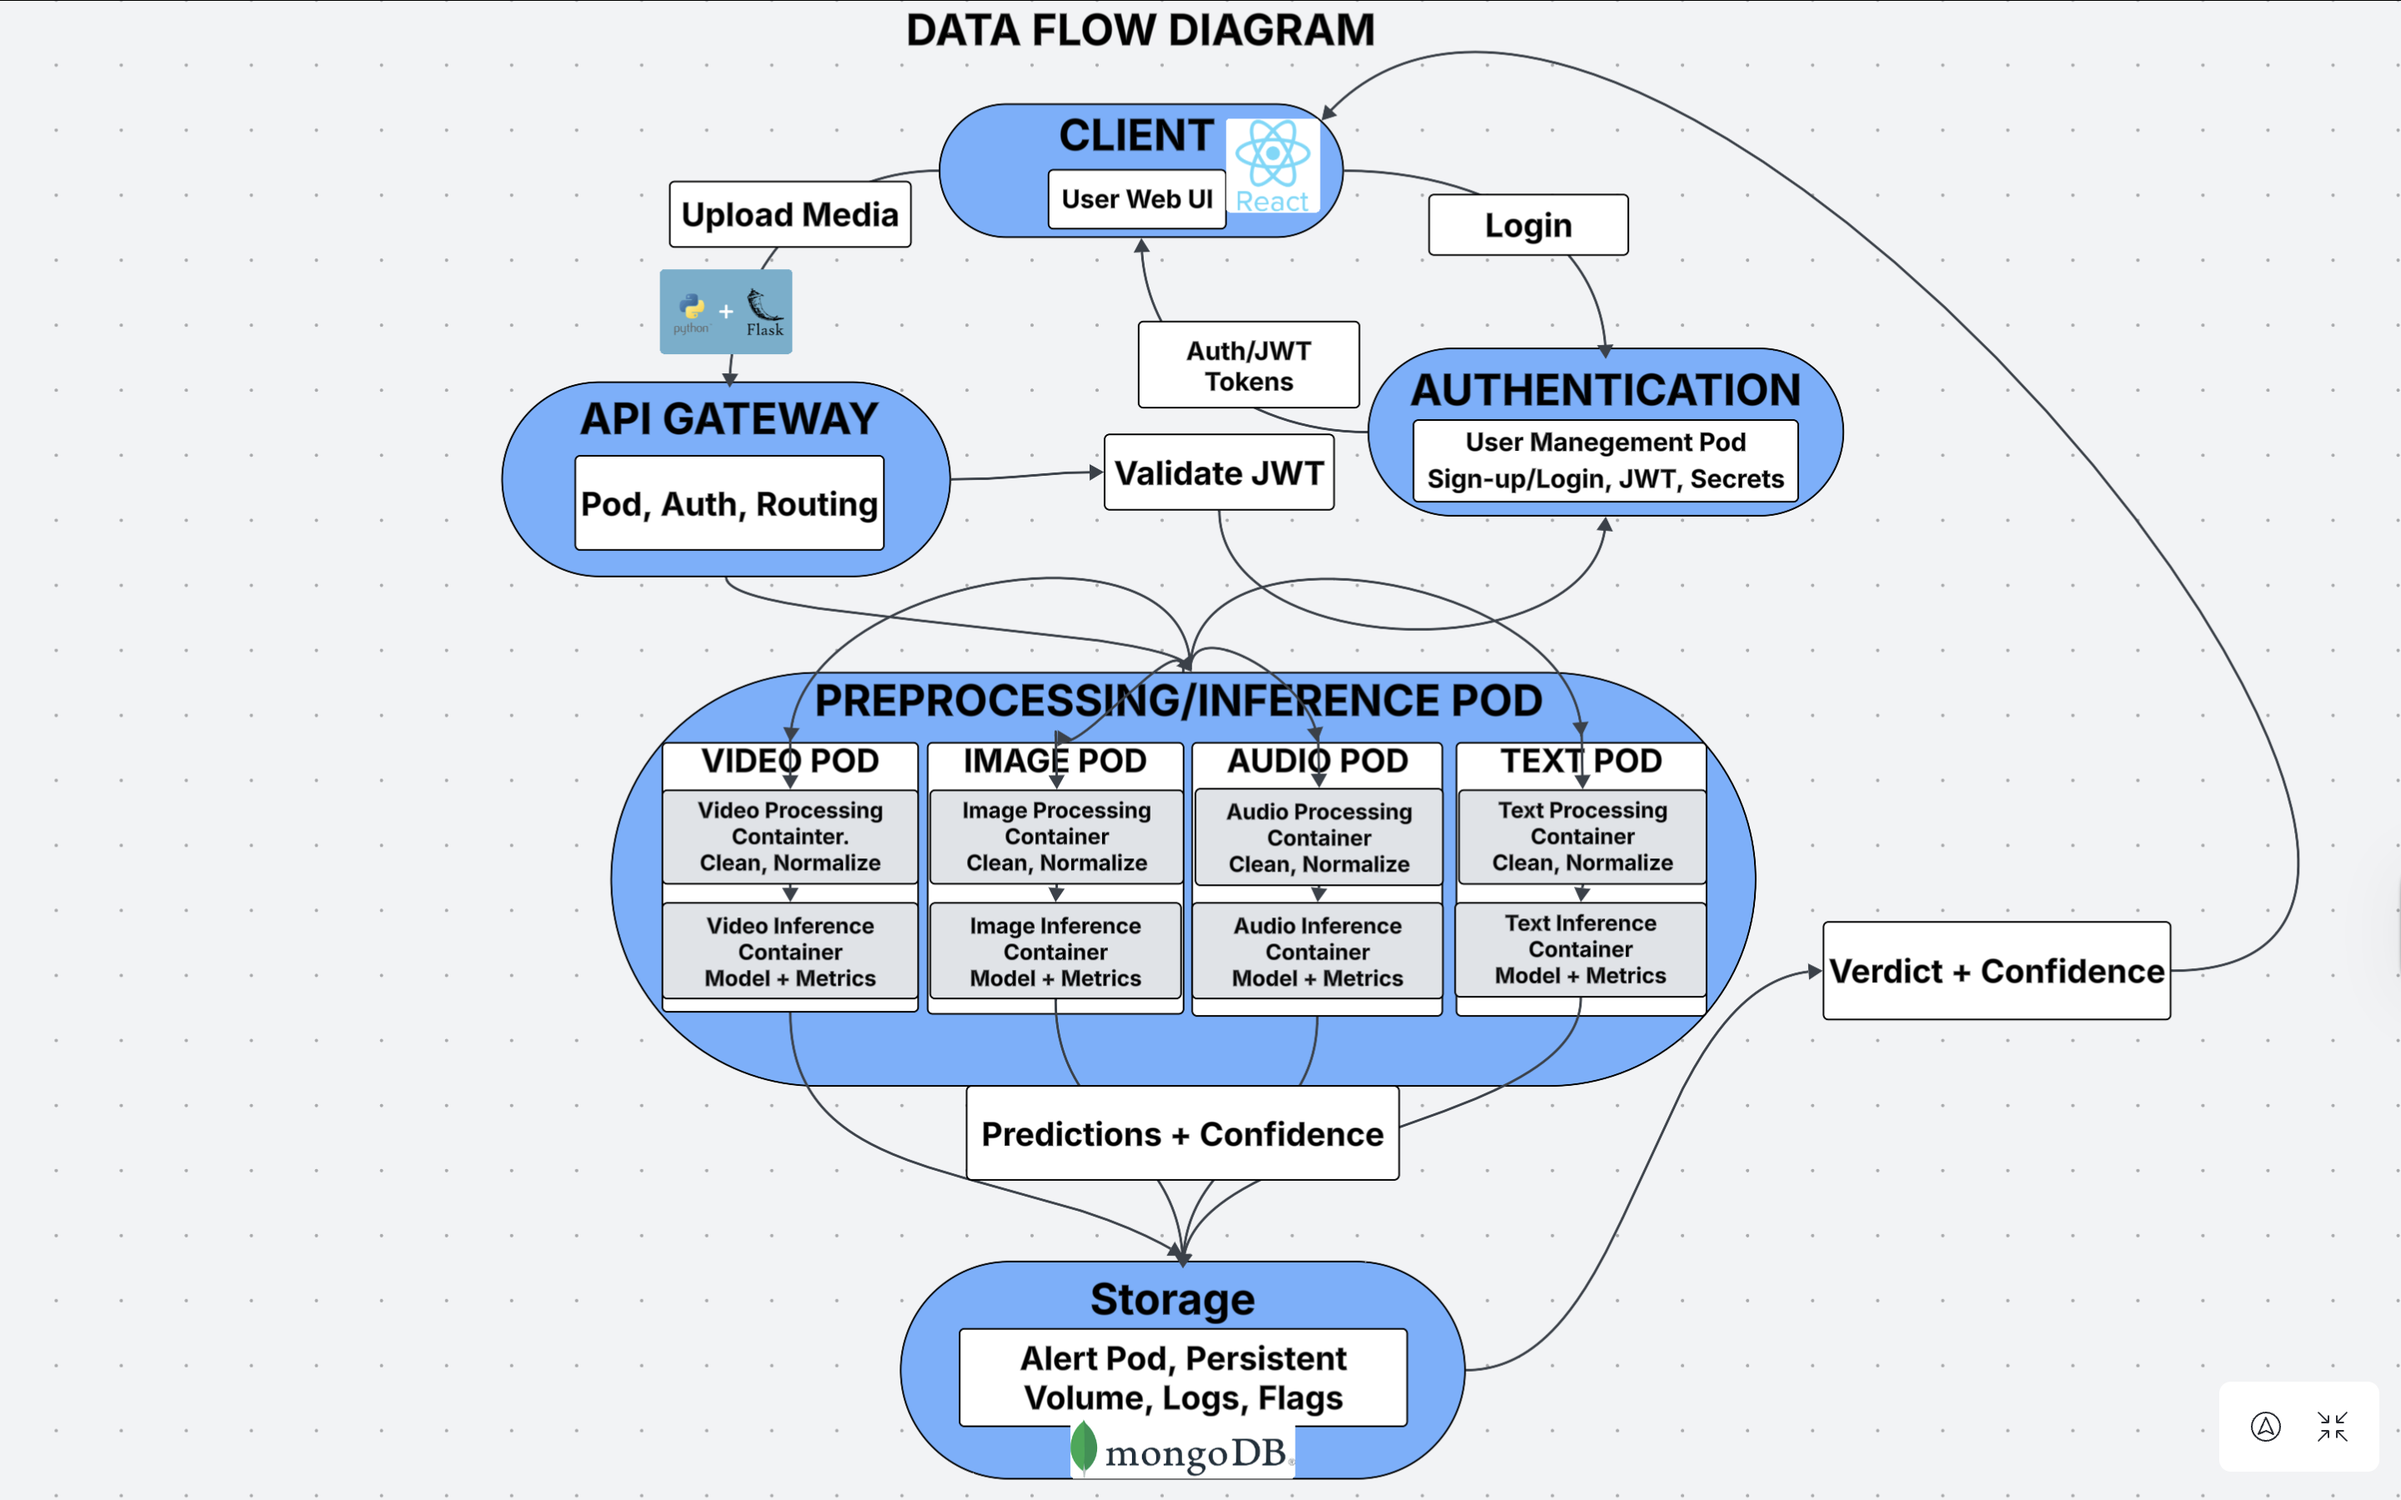
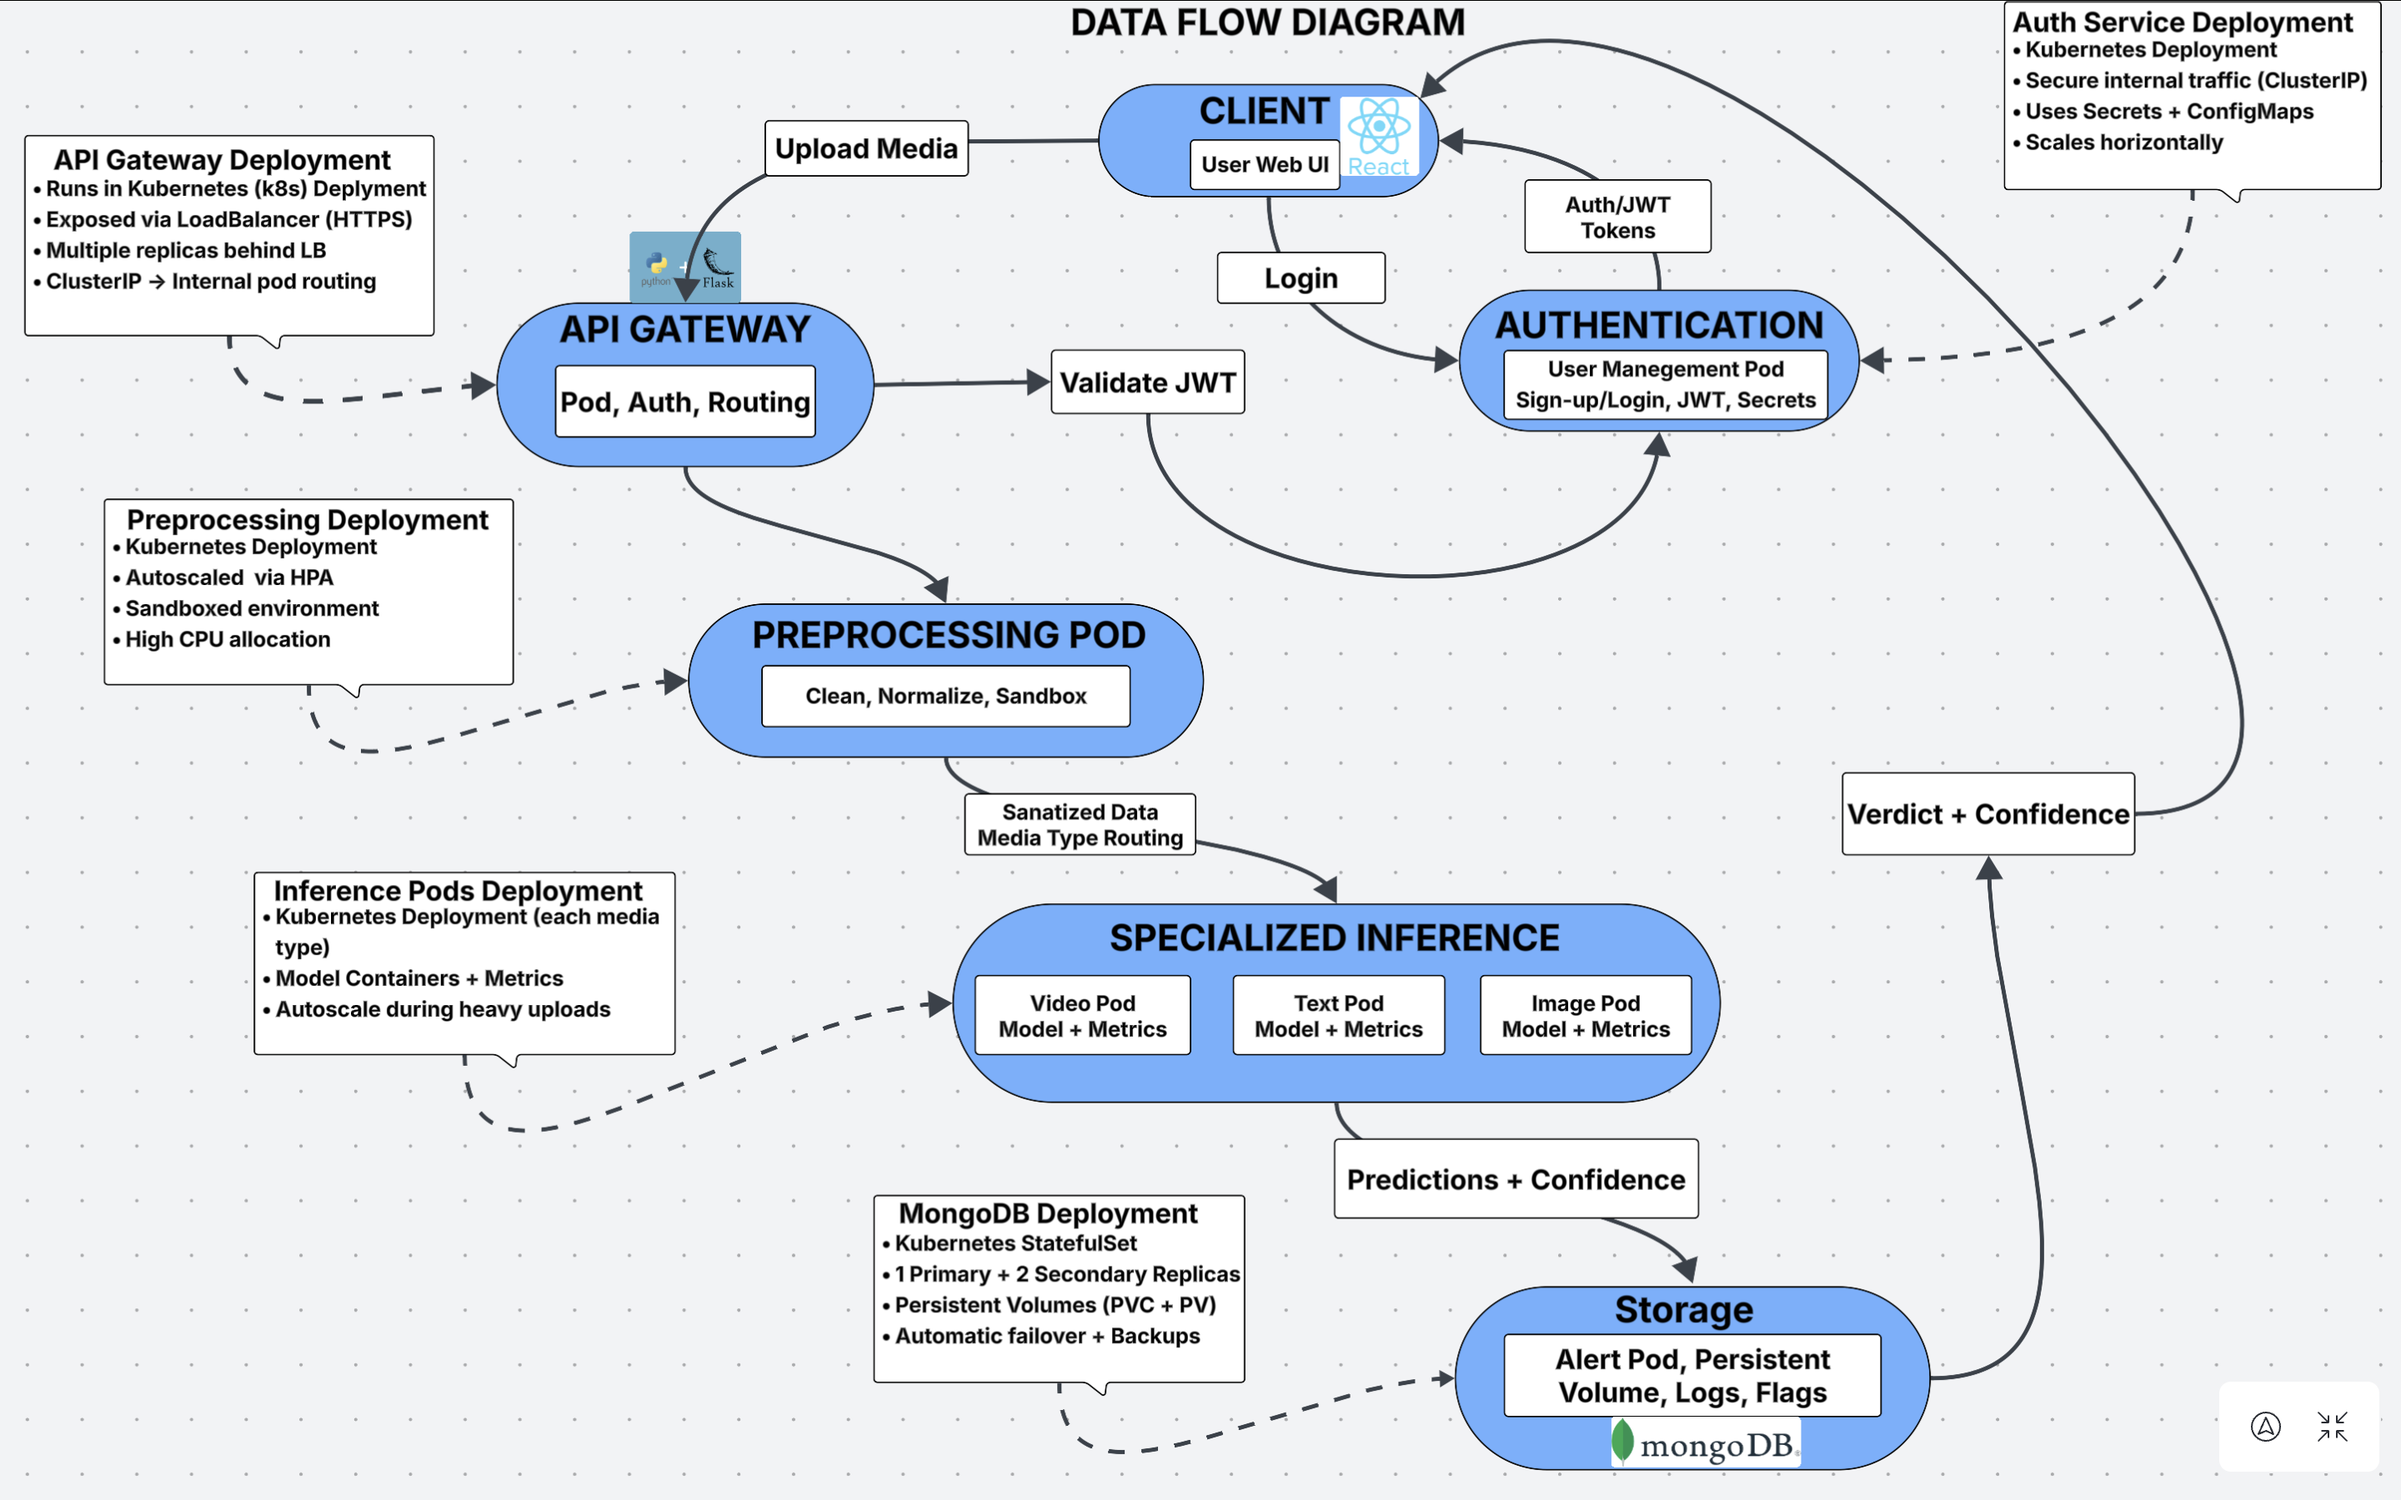
1

diff --git a/README.md b/README.md
@@ -12,7 +12,6 @@
 ## Overview 
 The **Deepfake & Synthetic Media Detector** is a cloud-native, Kubernetes-based application designed to detect AI-generated or manipulated content across multiple media types: 
 - Text
-- Audio
 - Image
 - Video
 
@@ -39,10 +38,8 @@ The system follows a distributed microservice architecture.
 - Preprocessing Service — converts and normalizes input.
 - Inference Service (multi-container):
    - text model
-   - audio model
    - image model
    - video model
-   - logging sidecar
 - User Management Service — registration, login, token issuance.
 - MongoDB StatefulSet — metadata, history, users.
 - PVC Storage — raw files, logs.
